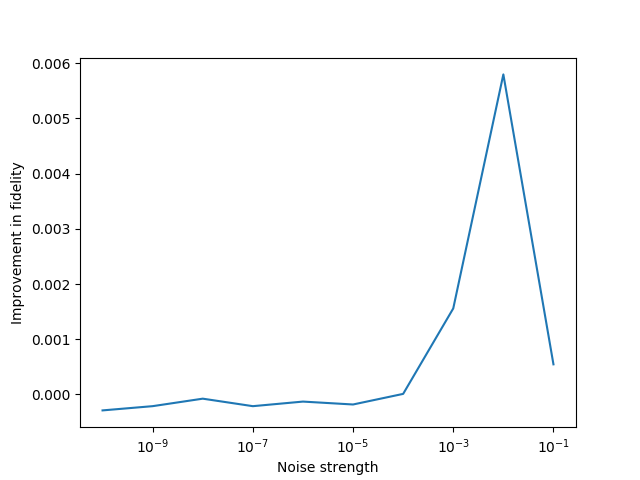
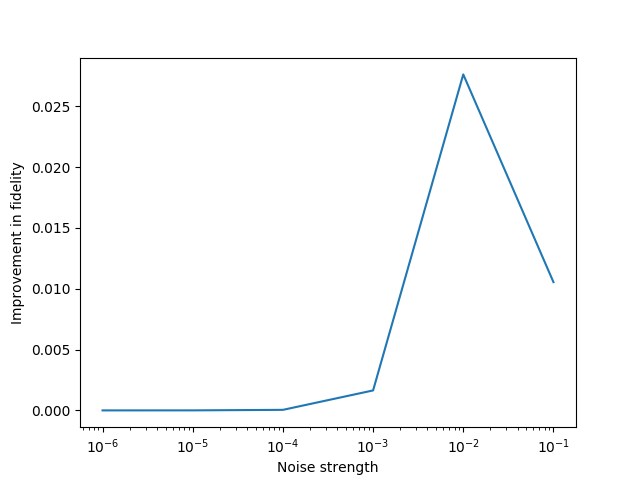
decide whether or not to prune something on a case by case basis

diff --git a/pruning.test.py b/pruning.test.py
@@ -1,4 +1,4 @@
-from pruning_circuits import generate_random_circuit, prune_circuit
+from pruning_circuits import generate_random_circuit, prune_circuit, prune_circuit_v2
 import J_fidelity
 from noise import standard_noise_channels
 import numpy as np
@@ -32,8 +32,36 @@ def run(n_qubits: int, circuit_length: int, tolerance: float, noise_strength: fl
     return total / n_trials, total_gates_cut / n_trials
 
 
+def run_v2(n_qubits: int, circuit_length: int, noise_strength: float, n_trials: int) -> Tuple[float, float]:
+
+    def do_once():
+        circuit, key = generate_random_circuit(n_qubits, circuit_length)
+        pruned = prune_circuit_v2(circuit, key, noise_strength)
+        gates_cut = len(circuit) - len(pruned)
+
+        unitary = np.eye(2 ** n_qubits)
+        for s in circuit[::-1]:
+            unitary = key[s] @ unitary
+
+        pruned_unitary = np.eye(2 ** n_qubits)
+        for s in pruned[::-1]:
+            pruned_unitary = key[s] @ pruned_unitary
+
+        noise = standard_noise_channels(noise_strength, n_qubits)
+        original_f = J_fidelity.f_pro_experimental(circuit, unitary, noise, key)
+        pruned_f = J_fidelity.f_pro_experimental(pruned, unitary, noise, key)
+        difference = pruned_f - original_f
+        return difference, gates_cut
+
+    res = [do_once() for _ in range(n_trials)]
+    total = sum([r[0] for r in res])
+    total_gates_cut = sum([r[1] for r in res])
+
+    return total / n_trials, total_gates_cut / n_trials
+
+
 def plot_tolerances():
-    diffs = [run(3, 10, i/10, 0.01, 100)[0] for i in range(10)]
+    diffs = [run(2, 100, i/10, 0.01, 100)[0] for i in range(10)]
 
     best = max(list(range(10)), key=lambda i: diffs[i])
     print("The best tolerance threshold was", best / 10)
@@ -47,10 +75,10 @@ def plot_tolerances():
 
 
 def plot_noise_strength():
-    diffs = [run(3, 10, 0.1, 0.1 ** (i + 1), 100)[0] for i in range(10)]
+    diffs = [run_v2(3, 10, 0.1 ** (i + 1), 100)[0] for i in range(6)]
 
     plt.figure()
-    plt.semilogx([0.1 ** (i + 1) for i in range(10)], diffs)
+    plt.semilogx([0.1 ** (i + 1) for i in range(6)], diffs)
 
     plt.xlabel('Noise strength')
     plt.ylabel('Improvement in fidelity')
@@ -58,3 +86,4 @@ def plot_noise_strength():
 
 
 plot_noise_strength()
+

diff --git a/pruning_circuits.py b/pruning_circuits.py
@@ -1,8 +1,11 @@
 import random
 import math
 from common_gates import cnot, Rx, Ry, Rz
-from typing import Iterable, Tuple, Dict, List
+from typing import Iterable, Tuple, Dict, List, Any
 import numpy as np
+import Pauli
+import J_fidelity
+from noise import standard_noise_channels
 
 
 def generate_random_circuit(n_qubits: int, n_gates: int) -> Tuple[List[str], Dict[str, np.ndarray]]:
@@ -41,3 +44,19 @@ def generate_random_circuit(n_qubits: int, n_gates: int) -> Tuple[List[str], Dic
 
 def prune_circuit(desc: Iterable, tolerance: float) -> Iterable:
     return [s for s in desc if not (s[0] == "r" and float(s.split("-", 1)[1]) < tolerance)]
+
+
+def is_it_worth_it(unitary: np.ndarray, noise_strength: float) -> bool:
+    n_qubits = int(math.log(unitary.shape[0], 2))
+    noise = standard_noise_channels(noise_strength, n_qubits)
+    circuit = ["A"]
+    key = {"A": unitary}
+    do_it = J_fidelity.f_pro_experimental(circuit, unitary, noise, key)
+    dont_do_it = J_fidelity.f_pro([unitary], np.eye(unitary.shape[0]))
+    if do_it > dont_do_it:
+        return True
+    return False
+
+
+def prune_circuit_v2(desc: Iterable, key: Dict[Any, np.ndarray], noise_strength: float) -> Iterable:
+    return [s for s in desc if is_it_worth_it(key[s], noise_strength)]
